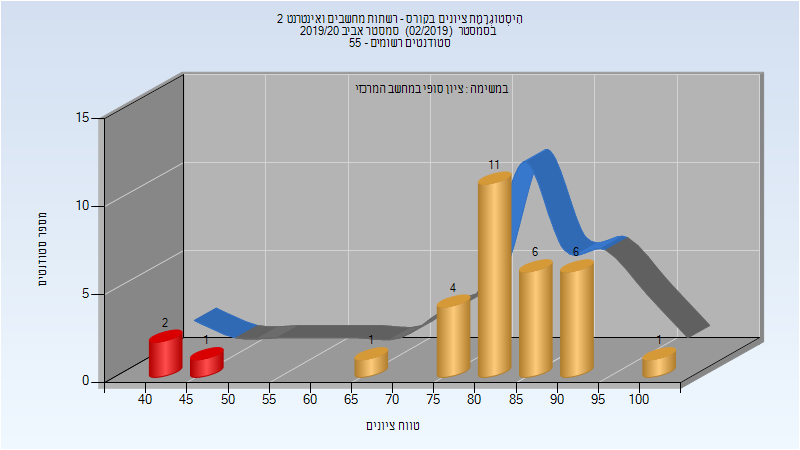
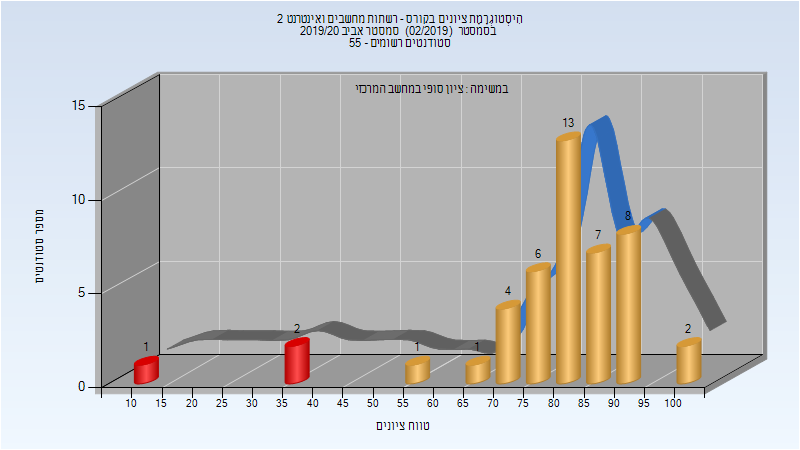
Deploy michael-maltsev/technion-histograms to github.com/michael-maltsev/technion-histograms.git:gh-pages

diff --git a/046005/index.html b/046005/index.html
@@ -688,6 +688,58 @@
 </tr>
 </tbody>
 </table>
+<h3>מבחן מועד ב'</h3>
+<p><img src="201902/Exam_B.png" alt="201902 Exam_B" /></p>
+<table>
+<thead>
+<tr>
+<th>סטודנטים</th>
+<th>עברו/נכשלו</th>
+<th>אחוז עוברים</th>
+<th>ציון מינימלי</th>
+<th>ציון מקסימלי</th>
+<th>ממוצע</th>
+<th>חציון</th>
+</tr>
+</thead>
+<tbody>
+<tr>
+<td>16</td>
+<td>8/8</td>
+<td>50</td>
+<td>4</td>
+<td>91</td>
+<td>53.312</td>
+<td>54.5</td>
+</tr>
+</tbody>
+</table>
+<h3>סופי מועד ב'</h3>
+<p><img src="201902/Final_B.png" alt="201902 Final_B" /></p>
+<table>
+<thead>
+<tr>
+<th>סטודנטים</th>
+<th>עברו/נכשלו</th>
+<th>אחוז עוברים</th>
+<th>ציון מינימלי</th>
+<th>ציון מקסימלי</th>
+<th>ממוצע</th>
+<th>חציון</th>
+</tr>
+</thead>
+<tbody>
+<tr>
+<td>16</td>
+<td>13/3</td>
+<td>81</td>
+<td>12</td>
+<td>100</td>
+<td>69.875</td>
+<td>74.5</td>
+</tr>
+</tbody>
+</table>
 <h3>סופי</h3>
 <p><img src="201902/Finals.png" alt="201902 Finals" /></p>
 <table>
@@ -704,13 +756,13 @@
 </thead>
 <tbody>
 <tr>
-<td>32</td>
-<td>29/3</td>
-<td>91</td>
-<td>41</td>
+<td>45</td>
+<td>42/3</td>
+<td>93</td>
+<td>12</td>
 <td>100</td>
-<td>80.344</td>
-<td>83.5</td>
+<td>79.089</td>
+<td>82</td>
 </tr>
 </tbody>
 </table>

diff --git a/046275/index.html b/046275/index.html
@@ -155,5 +155,72 @@
 </tr>
 </tbody>
 </table>
+<h2>אביב 2020</h2>
+<table>
+<thead>
+<tr>
+<th>איש סגל</th>
+<th>תפקיד</th>
+</tr>
+</thead>
+<tbody>
+<tr>
+<td>הבר גדי</td>
+<td>מרצה - אחראי מקצוע</td>
+</tr>
+</tbody>
+</table>
+<h3>סופי מועד א'</h3>
+<p><img src="201902/Final_A.png" alt="201902 Final_A" /></p>
+<table>
+<thead>
+<tr>
+<th>סטודנטים</th>
+<th>עברו/נכשלו</th>
+<th>אחוז עוברים</th>
+<th>ציון מינימלי</th>
+<th>ציון מקסימלי</th>
+<th>ממוצע</th>
+<th>חציון</th>
+</tr>
+</thead>
+<tbody>
+<tr>
+<td>24</td>
+<td>23/1</td>
+<td>96</td>
+<td>0</td>
+<td>100</td>
+<td>91.75</td>
+<td>98</td>
+</tr>
+</tbody>
+</table>
+<h3>סופי</h3>
+<p><img src="201902/Finals.png" alt="201902 Finals" /></p>
+<table>
+<thead>
+<tr>
+<th>סטודנטים</th>
+<th>עברו/נכשלו</th>
+<th>אחוז עוברים</th>
+<th>ציון מינימלי</th>
+<th>ציון מקסימלי</th>
+<th>ממוצע</th>
+<th>חציון</th>
+</tr>
+</thead>
+<tbody>
+<tr>
+<td>23</td>
+<td>23/0</td>
+<td>100</td>
+<td>81</td>
+<td>100</td>
+<td>95.739</td>
+<td>98</td>
+</tr>
+</tbody>
+</table>
   </body>
 </html>

diff --git a/094591/index.html b/094591/index.html
@@ -2010,12 +2010,12 @@
 </thead>
 <tbody>
 <tr>
-<td>292</td>
-<td>273/19</td>
+<td>291</td>
+<td>272/19</td>
 <td>93</td>
 <td>10</td>
 <td>100</td>
-<td>80.432</td>
+<td>80.433</td>
 <td>85</td>
 </tr>
 </tbody>

diff --git a/046005/README.md b/046005/README.md
@@ -211,11 +211,27 @@
 | ---- | ---- | ---- | ---- | ---- | ---- | ---- |
 | 32 | 29/3 | 91 | 41 | 100 | 80.344 | 83.5 |
 
+### מבחן מועד ב'
+
+![201902 Exam_B](201902/Exam_B.png)
+
+| סטודנטים | עברו/נכשלו | אחוז עוברים | ציון מינימלי | ציון מקסימלי | ממוצע | חציון |
+| ---- | ---- | ---- | ---- | ---- | ---- | ---- |
+| 16 | 8/8 | 50 | 4 | 91 | 53.312 | 54.5 |
+
+### סופי מועד ב'
+
+![201902 Final_B](201902/Final_B.png)
+
+| סטודנטים | עברו/נכשלו | אחוז עוברים | ציון מינימלי | ציון מקסימלי | ממוצע | חציון |
+| ---- | ---- | ---- | ---- | ---- | ---- | ---- |
+| 16 | 13/3 | 81 | 12 | 100 | 69.875 | 74.5 |
+
 ### סופי
 
 ![201902 Finals](201902/Finals.png)
 
 | סטודנטים | עברו/נכשלו | אחוז עוברים | ציון מינימלי | ציון מקסימלי | ממוצע | חציון |
 | ---- | ---- | ---- | ---- | ---- | ---- | ---- |
-| 32 | 29/3 | 91 | 41 | 100 | 80.344 | 83.5 |
+| 45 | 42/3 | 93 | 12 | 100 | 79.089 | 82 |
 

diff --git a/046275/README.md b/046275/README.md
@@ -44,3 +44,25 @@
 | ---- | ---- | ---- | ---- | ---- | ---- | ---- |
 | 71 | 69/2 | 97 | 10 | 100 | 92.93 | 95 |
 
+## אביב 2020
+
+| איש סגל | תפקיד |
+| ---- | ---- |
+| הבר גדי | מרצה - אחראי מקצוע |
+
+### סופי מועד א'
+
+![201902 Final_A](201902/Final_A.png)
+
+| סטודנטים | עברו/נכשלו | אחוז עוברים | ציון מינימלי | ציון מקסימלי | ממוצע | חציון |
+| ---- | ---- | ---- | ---- | ---- | ---- | ---- |
+| 24 | 23/1 | 96 | 0 | 100 | 91.75 | 98 |
+
+### סופי
+
+![201902 Finals](201902/Finals.png)
+
+| סטודנטים | עברו/נכשלו | אחוז עוברים | ציון מינימלי | ציון מקסימלי | ממוצע | חציון |
+| ---- | ---- | ---- | ---- | ---- | ---- | ---- |
+| 23 | 23/0 | 100 | 81 | 100 | 95.739 | 98 |
+

diff --git a/094591/README.md b/094591/README.md
@@ -633,7 +633,7 @@
 
 | סטודנטים | עברו/נכשלו | אחוז עוברים | ציון מינימלי | ציון מקסימלי | ממוצע | חציון |
 | ---- | ---- | ---- | ---- | ---- | ---- | ---- |
-| 292 | 273/19 | 93 | 10 | 100 | 80.432 | 85 |
+| 291 | 272/19 | 93 | 10 | 100 | 80.433 | 85 |
 
 ## אביב 2020
 
